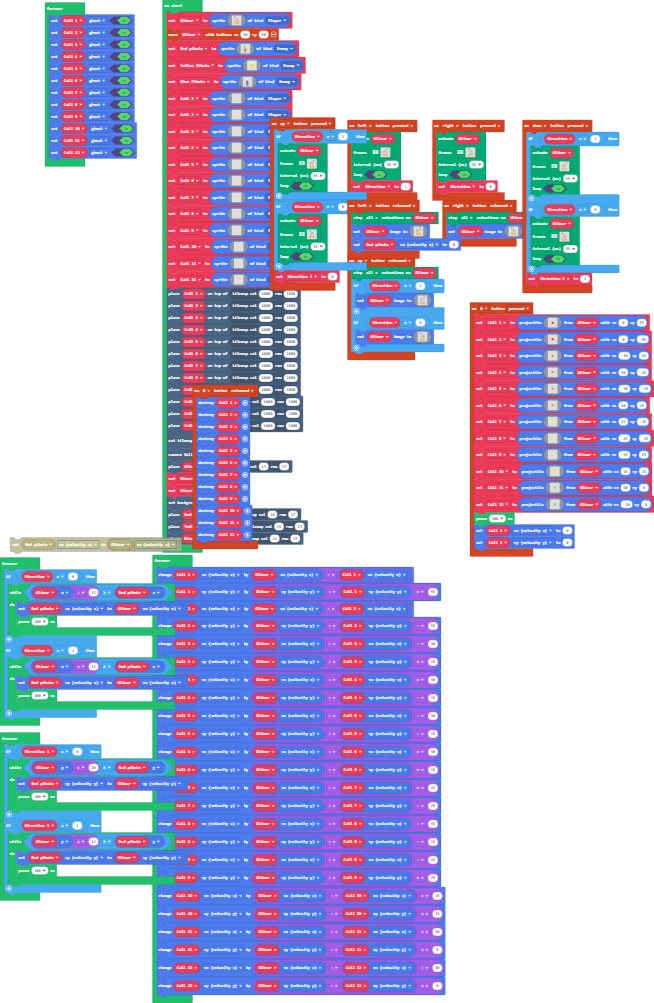
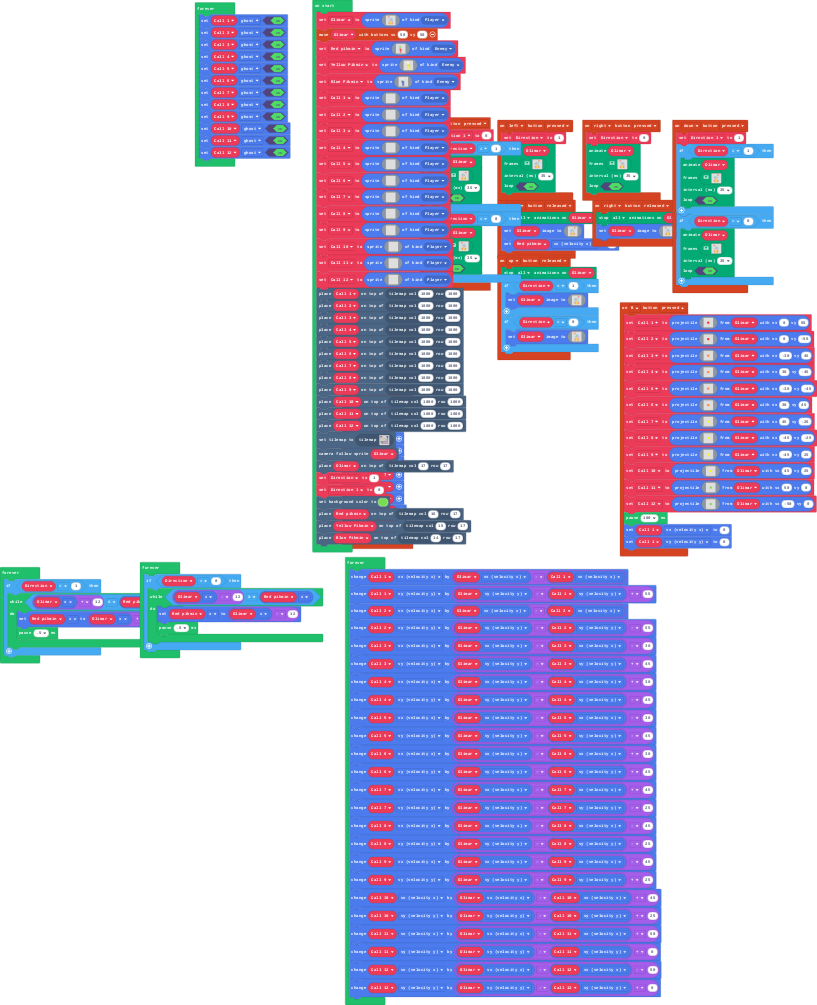
Update main.blocks, main.ts

diff --git a/main.ts b/main.ts
@@ -1,4 +1,5 @@
 controller.up.onEvent(ControllerButtonEvent.Pressed, function () {
+    Direction_1 = 0
     if (Direction == 1) {
         animation.runImageAnimation(
         Olimar,
@@ -735,7 +736,6 @@ controller.up.onEvent(ControllerButtonEvent.Pressed, function () {
         true
         )
     }
-    Direction_1 = 0
 })
 controller.B.onEvent(ControllerButtonEvent.Pressed, function () {
     Call_1 = sprites.createProjectileFromSprite(img`
@@ -959,6 +959,7 @@ controller.B.onEvent(ControllerButtonEvent.Pressed, function () {
     Call_1.vy = 0
 })
 controller.left.onEvent(ControllerButtonEvent.Pressed, function () {
+    Direction = 1
     animation.runImageAnimation(
     Olimar,
     [img`
@@ -1325,7 +1326,6 @@ controller.left.onEvent(ControllerButtonEvent.Pressed, function () {
     35,
     true
     )
-    Direction = 1
 })
 controller.right.onEvent(ControllerButtonEvent.Released, function () {
     animation.stopAnimation(animation.AnimationTypes.All, Olimar)
@@ -1385,6 +1385,7 @@ controller.left.onEvent(ControllerButtonEvent.Released, function () {
     Red_pikmin.vx = 0
 })
 controller.right.onEvent(ControllerButtonEvent.Pressed, function () {
+    Direction = 0
     animation.runImageAnimation(
     Olimar,
     [img`
@@ -1751,7 +1752,6 @@ controller.right.onEvent(ControllerButtonEvent.Pressed, function () {
     35,
     true
     )
-    Direction = 0
 })
 controller.up.onEvent(ControllerButtonEvent.Released, function () {
     animation.stopAnimation(animation.AnimationTypes.All, Olimar)
@@ -1811,6 +1811,7 @@ controller.up.onEvent(ControllerButtonEvent.Released, function () {
     }
 })
 controller.down.onEvent(ControllerButtonEvent.Pressed, function () {
+    Direction_1 = 1
     if (Direction == 1) {
         animation.runImageAnimation(
         Olimar,
@@ -2547,7 +2548,6 @@ controller.down.onEvent(ControllerButtonEvent.Pressed, function () {
         true
         )
     }
-    Direction_1 = 1
 })
 controller.B.onEvent(ControllerButtonEvent.Released, function () {
     Call_1.destroy()
@@ -2896,7 +2896,7 @@ tiles.placeOnTile(Call_12, tiles.getTileLocation(1000, 1000))
 tiles.setCurrentTilemap(tilemap`level1`)
 scene.cameraFollowSprite(Olimar)
 tiles.placeOnTile(Olimar, tiles.getTileLocation(17, 17))
-Direction = 0
+Direction = 1
 Direction_1 = 0
 scene.setBackgroundColor(7)
 tiles.placeOnTile(Red_pikmin, tiles.getTileLocation(16, 17))
@@ -2917,16 +2917,18 @@ forever(function () {
     Call_12.setFlag(SpriteFlag.Ghost, true)
 })
 forever(function () {
-    if (Direction == 0) {
-        while (Olimar.x - 12 >= Red_pikmin.x) {
-            Red_pikmin.vx = Olimar.vx
-            pause(100)
-        }
-    }
     if (Direction == 1) {
         while (Olimar.x + 12 <= Red_pikmin.x) {
-            Red_pikmin.vx = Olimar.vx
-            pause(100)
+            Red_pikmin.x = Olimar.x + 12
+            pause(.5)
+        }
+    }
+})
+forever(function () {
+    if (Direction == 0) {
+        while (Olimar.x - 12 >= Red_pikmin.x) {
+            Red_pikmin.x = Olimar.x - 12
+            pause(.5)
         }
     }
 })
@@ -2955,18 +2957,4 @@ forever(function () {
     Call_11.vy += Olimar.vy - Call_11.vy + 0
     Call_12.vx += Olimar.vx - Call_12.vx - 50
     Call_12.vy += Olimar.vy - Call_12.vy + 0
-})
-forever(function () {
-    if (Direction_1 == 0) {
-        while (Olimar.y + 20 <= Red_pikmin.y) {
-            Red_pikmin.vy = Olimar.vy
-            pause(100)
-        }
-    }
-    if (Direction_1 == 1) {
-        while (Olimar.y + 12 >= Red_pikmin.y) {
-            Red_pikmin.vy = Olimar.vy
-            pause(100)
-        }
-    }
 })
